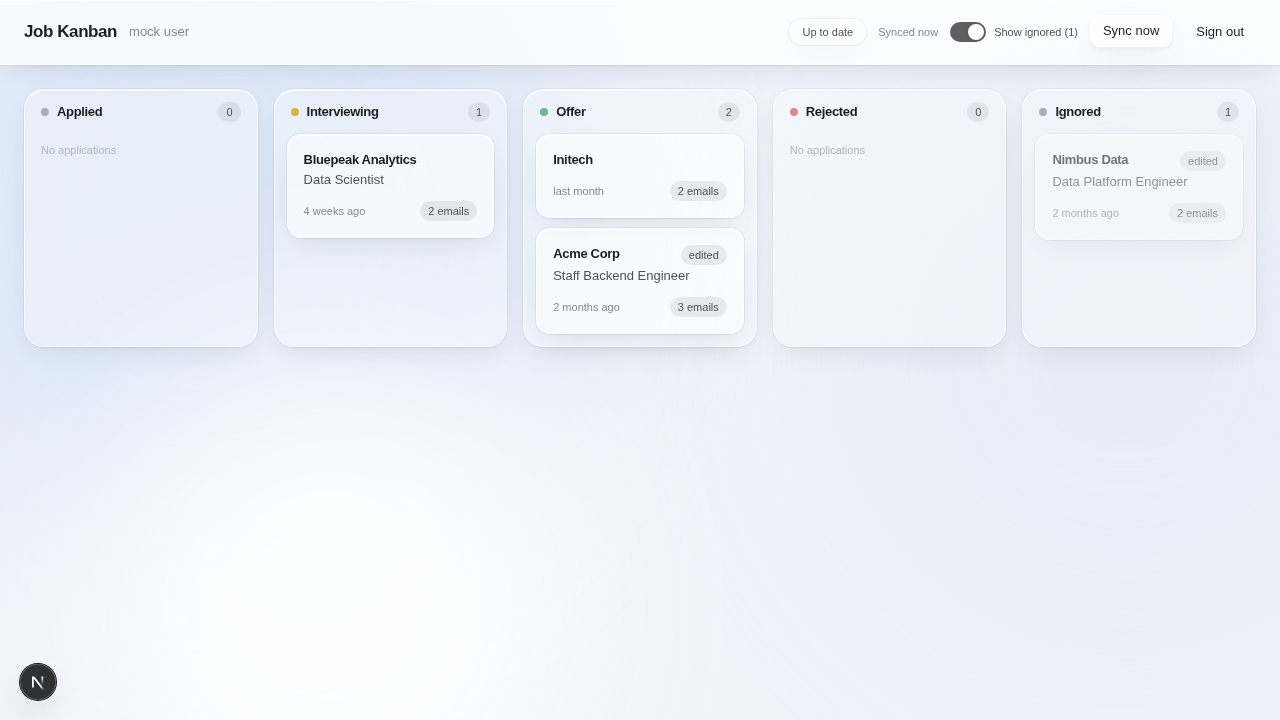
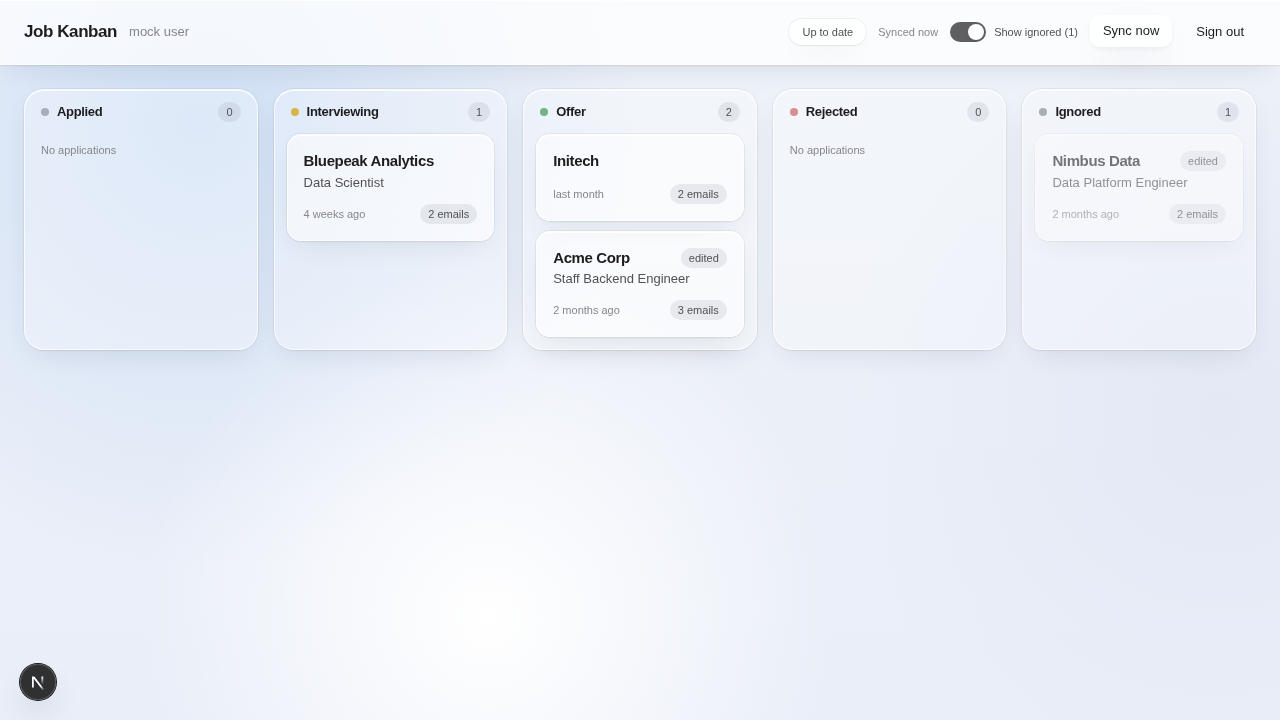
Polish board and detail sheet after design review; fast card exit
Claude-Session: https://claude.ai/code/session_01PwvMcgQ3oEoAGqEu7jEcEJ

diff --git a/src/components/Board.tsx b/src/components/Board.tsx
@@ -14,6 +14,7 @@ import {
   Pill,
   Switch,
   Toast,
+  exitFast,
   fadeUp,
   listStagger,
   springSoft,
@@ -187,10 +188,12 @@ export default function Board({ userEmail }: { userEmail: string }) {
           <span className="text-sm text-ink-3">{userEmail}</span>
         </div>
         <div className="flex flex-wrap items-center gap-3">
-          <Toast message={syncToast} />
-          <span className="text-xs text-ink-3 tabular-nums">
-            Synced {formatRelative(lastSyncedAt)}
-          </span>
+          <div className="hidden sm:flex items-center gap-3">
+            <Toast message={syncToast} />
+            <span className="text-xs text-ink-3 tabular-nums">
+              Synced {formatRelative(lastSyncedAt)}
+            </span>
+          </div>
           <Switch
             checked={showIgnored}
             onChange={(e) => setShowIgnored(e.target.checked)}
@@ -205,7 +208,7 @@ export default function Board({ userEmail }: { userEmail: string }) {
         </div>
       </GlassPanel>
 
-      <main className="flex-1 overflow-x-auto px-6 py-6">
+      <main className="flex flex-1 flex-col overflow-x-auto px-6 py-6">
         {loading ? (
           <div
             className={`grid gap-4 ${
@@ -220,9 +223,11 @@ export default function Board({ userEmail }: { userEmail: string }) {
             ))}
           </div>
         ) : loadError ? (
-          <p className="text-sm text-status-red-fg">{loadError}</p>
+          <div className="flex flex-1 items-center justify-center">
+            <p className="text-sm text-status-red-fg">{loadError}</p>
+          </div>
         ) : all.length === 0 ? (
-          <div className="flex flex-1 items-center justify-center py-24">
+          <div className="flex flex-1 items-center justify-center">
             <GlassPanel strength="strong" className="max-w-sm rounded-xl p-8 text-center">
               <h2 className="mb-2 text-lg font-semibold tracking-tight text-ink">
                 No applications yet
@@ -294,7 +299,7 @@ export default function Board({ userEmail }: { userEmail: string }) {
                         ))}
                       </AnimatePresence>
                       {cards.length === 0 && (
-                        <p className="px-1 py-2 text-xs text-ink-4">No applications</p>
+                        <p className="px-1 py-2 text-xs text-ink-3">No applications</p>
                       )}
                     </motion.div>
                   </Column>
@@ -346,7 +351,7 @@ function Card({
         transition={springSoft}
         initial="hidden"
         animate="show"
-        exit={{ opacity: 0, scale: 0.98 }}
+        exit={{ opacity: 0, scale: 0.98, transition: exitFast }}
         variants={fadeUp}
         whileHover={{ y: -2 }}
         whileTap={{ scale: 0.98 }}
@@ -355,7 +360,7 @@ function Card({
         }`.trim()}
       >
         <div className="flex items-start justify-between gap-2">
-          <p className="text-sm font-semibold text-ink tracking-tight">{app.company}</p>
+          <p className="text-base font-semibold tracking-tight text-ink leading-snug">{app.company}</p>
           {app.user_edited === 1 && (
             <Pill tone="neutral" size="xs" className="shrink-0">
               edited

diff --git a/src/components/DetailPanel.tsx b/src/components/DetailPanel.tsx
@@ -99,7 +99,7 @@ export default function DetailPanel({
 
   return (
     <Sheet open onClose={onClose} title="Application details">
-      <div className="flex flex-1 flex-col gap-5 px-5 py-5">
+      <div className="flex flex-1 flex-col gap-5 px-6 py-6">
         <Field label="Company">
           <Input value={company} onChange={(e) => setCompany(e.target.value)} />
         </Field>
@@ -164,11 +164,10 @@ export default function DetailPanel({
           </AnimatePresence>
         </div>
 
-        <div className="flex flex-col gap-2 border-t border-line pt-5">
+        <div className="flex items-center gap-2 border-t border-line pt-5">
           <Button
             variant="secondary"
             size="sm"
-            className="justify-start"
             onClick={handleMarkIgnored}
             disabled={saving}
           >
@@ -177,7 +176,6 @@ export default function DetailPanel({
           <Button
             variant="danger"
             size="sm"
-            className="justify-start"
             onClick={handleDelete}
             disabled={saving}
           >
@@ -186,9 +184,11 @@ export default function DetailPanel({
         </div>
 
         <div className="border-t border-line pt-5">
-          <h3 className="mb-2 text-xs font-semibold uppercase tracking-wide text-ink-3">
-            Emails ({sortedEmails.length})
-          </h3>
+          <div className="mb-2 flex items-center justify-between">
+            <h3 className="text-xs font-semibold uppercase tracking-wide text-ink-3">
+              Emails ({sortedEmails.length})
+            </h3>
+          </div>
           {sortedEmails.length === 0 ? (
             <p className="text-xs text-ink-3">No emails linked.</p>
           ) : (
@@ -207,13 +207,19 @@ export default function DetailPanel({
                   <p className="text-sm font-medium text-ink">
                     {email.subject || "(no subject)"}
                   </p>
-                  <p className="mt-0.5 flex flex-wrap items-center gap-1.5 text-xs text-ink-3">
-                    <span>
-                      {email.from_addr || "unknown sender"} ·{" "}
-                      {formatRelative(email.received_at)}
+                  <p className="mt-0.5 flex items-center gap-1.5 text-xs text-ink-3 min-w-0">
+                    <span className="truncate min-w-0">
+                      {email.from_addr || "unknown sender"}
+                    </span>
+                    <span className="shrink-0">
+                      · {formatRelative(email.received_at)}
                     </span>
                     {email.detected_status && (
-                      <StatusPill status={email.detected_status} size="xs" />
+                      <StatusPill
+                        status={email.detected_status}
+                        size="xs"
+                        className="shrink-0"
+                      />
                     )}
                   </p>
                   {email.snippet && (

diff --git a/src/components/ui/motion.ts b/src/components/ui/motion.ts
@@ -29,3 +29,9 @@ export const listStagger: Variants = {
     transition: { staggerChildren: 0.03 },
   },
 };
+
+/** Quick, calm exit for items leaving a list (mirrors --dur-fast). */
+export const exitFast: Transition = {
+  duration: 0.15,
+  ease: [0.22, 1, 0.36, 1],
+};

diff --git a/docs/DESIGN.md b/docs/DESIGN.md
@@ -17,10 +17,11 @@ Use the Tailwind utilities generated from these (e.g. `bg-canvas`, `text-ink-2`,
 ### Color
 | token | value | use |
 |---|---|---|
-| `--color-canvas` | `#eef2f9` | page background base |
-| `--color-orb-1` | `#d6e4f7` | blurred orb (blue) |
-| `--color-orb-2` | `#e6ebf6` | blurred orb (lavender-grey) |
-| `--color-orb-3` | `#ffffff` | blurred orb (white glow) |
+| `--color-canvas` | `#eef2f9` | page background base (gradient top) |
+| `--color-canvas-2` | `#e9eef8` | page background gradient (bottom) |
+| `--color-orb-1` | `#cfdff5` | radial-gradient orb (blue) |
+| `--color-orb-2` | `#e3e8f5` | radial-gradient orb (lavender-grey) |
+| `--color-orb-3` | `#ffffff` | radial-gradient orb (white glow) |
 | `--color-ink` | `#1d1d1f` | primary text |
 | `--color-ink-2` | `#515154` | secondary text |
 | `--color-ink-3` | `#86868b` | tertiary / meta text |
@@ -31,6 +32,8 @@ Use the Tailwind utilities generated from these (e.g. `bg-canvas`, `text-ink-2`,
 | `--color-glass-soft` | `rgba(255,255,255,0.30)` | column fill |
 | `--color-glass-border` | `rgba(255,255,255,0.70)` | inner light border |
 | `--color-glass-edge` | `rgba(29,29,31,0.06)` | outer hairline |
+| `--color-field` | `rgba(29,29,31,0.035)` | input/select/textarea fill |
+| `--color-field-focus` | `rgba(255,255,255,0.9)` | input/select/textarea fill on focus |
 | `--color-scrim` | `rgba(29,29,31,0.18)` | modal backdrop (blurred) |
 | `--color-status-neutral` / `-neutral-bg` / `-neutral-fg` | `#a7aeb9` / `rgba(120,130,145,0.14)` / `#515154` | Applied, Ignored |
 | `--color-status-yellow` / `-yellow-bg` / `-yellow-fg` | `#d9b44a` / `rgba(217,180,74,0.18)` / `#735a14` | Interviewing |
@@ -67,6 +70,7 @@ Springs (exported from `src/components/ui/motion.ts`):
 - `spring` (default, calm): `{ type:"spring", stiffness: 380, damping: 32, mass: 0.8 }`
 - `springSoft` (sheets/layout): `{ type:"spring", stiffness: 260, damping: 30, mass: 1 }`
 - `hoverLift`: `whileHover={{ y:-2 }}`, `whileTap={{ scale:0.98 }}`
+- `exitFast`: 150ms ease-out tween for items leaving a list (keeps removed cards out of the DOM quickly).
 - `fadeUp` variants: `hidden {opacity:0, y:6}` → `show {opacity:1, y:0}`; list stagger `0.03s`.
 Reduced motion: `<MotionConfig reducedMotion="user">` in layout **and** a CSS `@media (prefers-reduced-motion: reduce)` block that sets transition/animation durations to ~0.
 
@@ -131,8 +135,8 @@ The Playwright smoke test `scripts/e2e-mock.mjs` relies on these selectors. Keep
 - `Switch`: the visible label text node is exactly the `label` prop, rendered as a plain `<span>{label}</span>` after the track, so `label:has-text("Show ignored")` will match the whole `<label>` element (input + track + text) — the click target is the entire component since it's one big native `<label>`.
 - `Button` variants: `primary` = `bg-ink text-white` with `hover:brightness-110` (not opacity, to keep the white text at full contrast); `secondary` = `.glass glass-strong` fill; `ghost` = transparent with `hover:bg-ink/5`; `danger` = bordered outline (`border-status-red/50` + `text-status-red-fg` + `hover:bg-status-red-bg`), not a filled button. `md` size is `h-9.5` per the doc's first option.
 - `npx tsc --noEmit`, `npm run lint`, and a runtime check against the already-running mock dev server (port 3120) all pass — see verification section of the handoff report for details. `Board.tsx`/`DetailPanel.tsx`/`page.tsx` were not touched and still use their old dark Tailwind classes, which is expected until B/C land.
-- [ ] Review 1 (screenshots, spacing, motion, contrast) → fixes
-- [ ] e2e smoke test green (`scripts/e2e-mock.mjs`), `npm run lint`, `npx tsc --noEmit`
+- [x] Review 1 (screenshots, spacing, motion, contrast) → fixes applied (orb banding → radial gradients, field tint, empty-state centering, action row, card title size, fast card exit)
+- [x] e2e smoke test green (`scripts/e2e-mock.mjs`), `npm run lint`, `npx tsc --noEmit`
 
 ### Notes from B
 - `Board.tsx` rewritten on the `ui/*` primitives per spec: `GlassPanel as="header" strength="strong"` sticky top bar,
